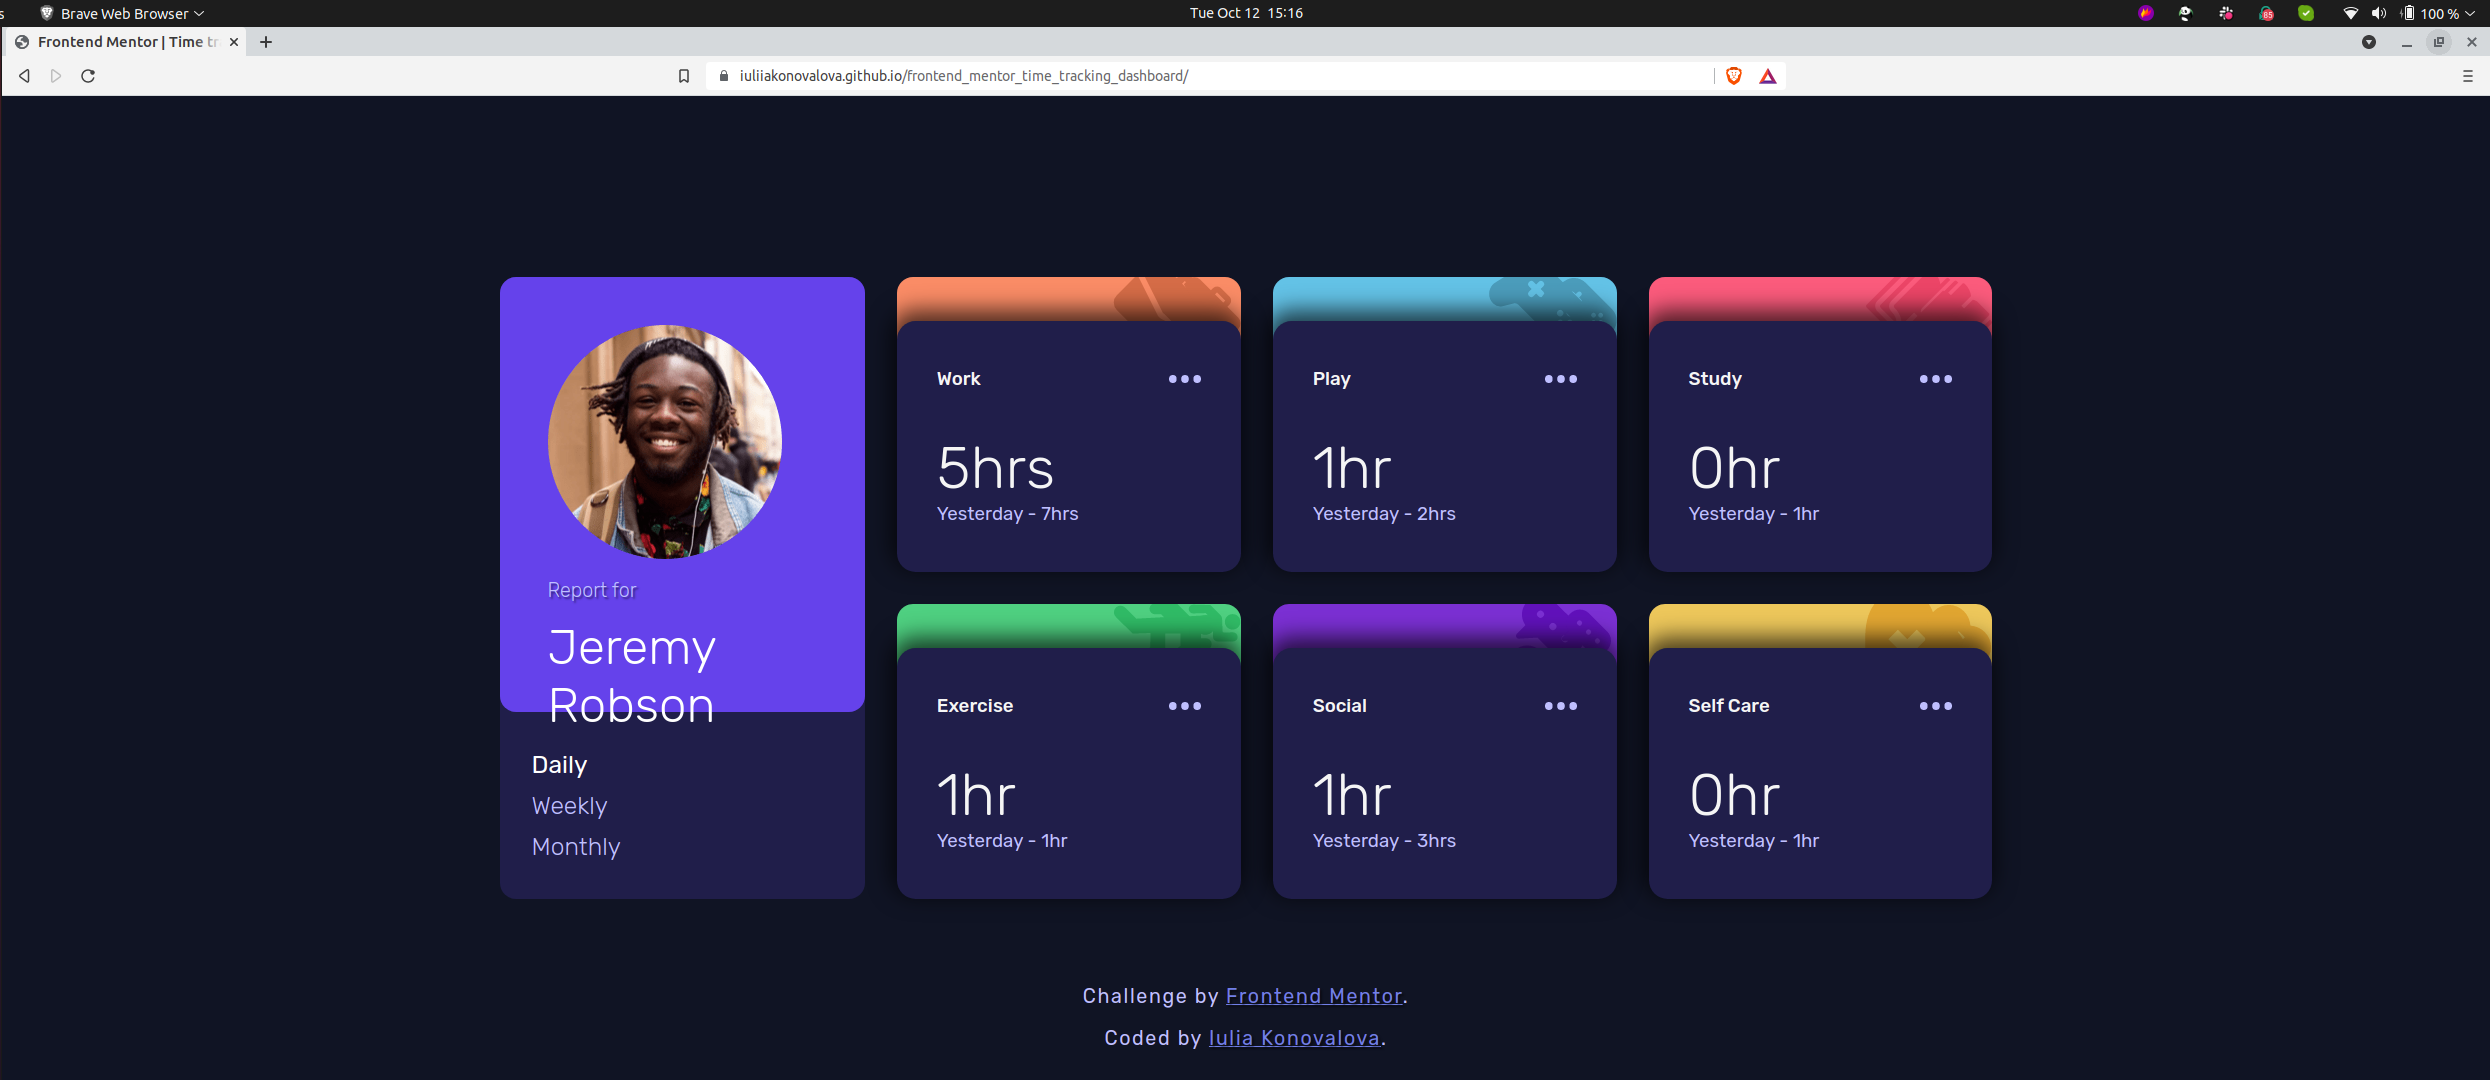
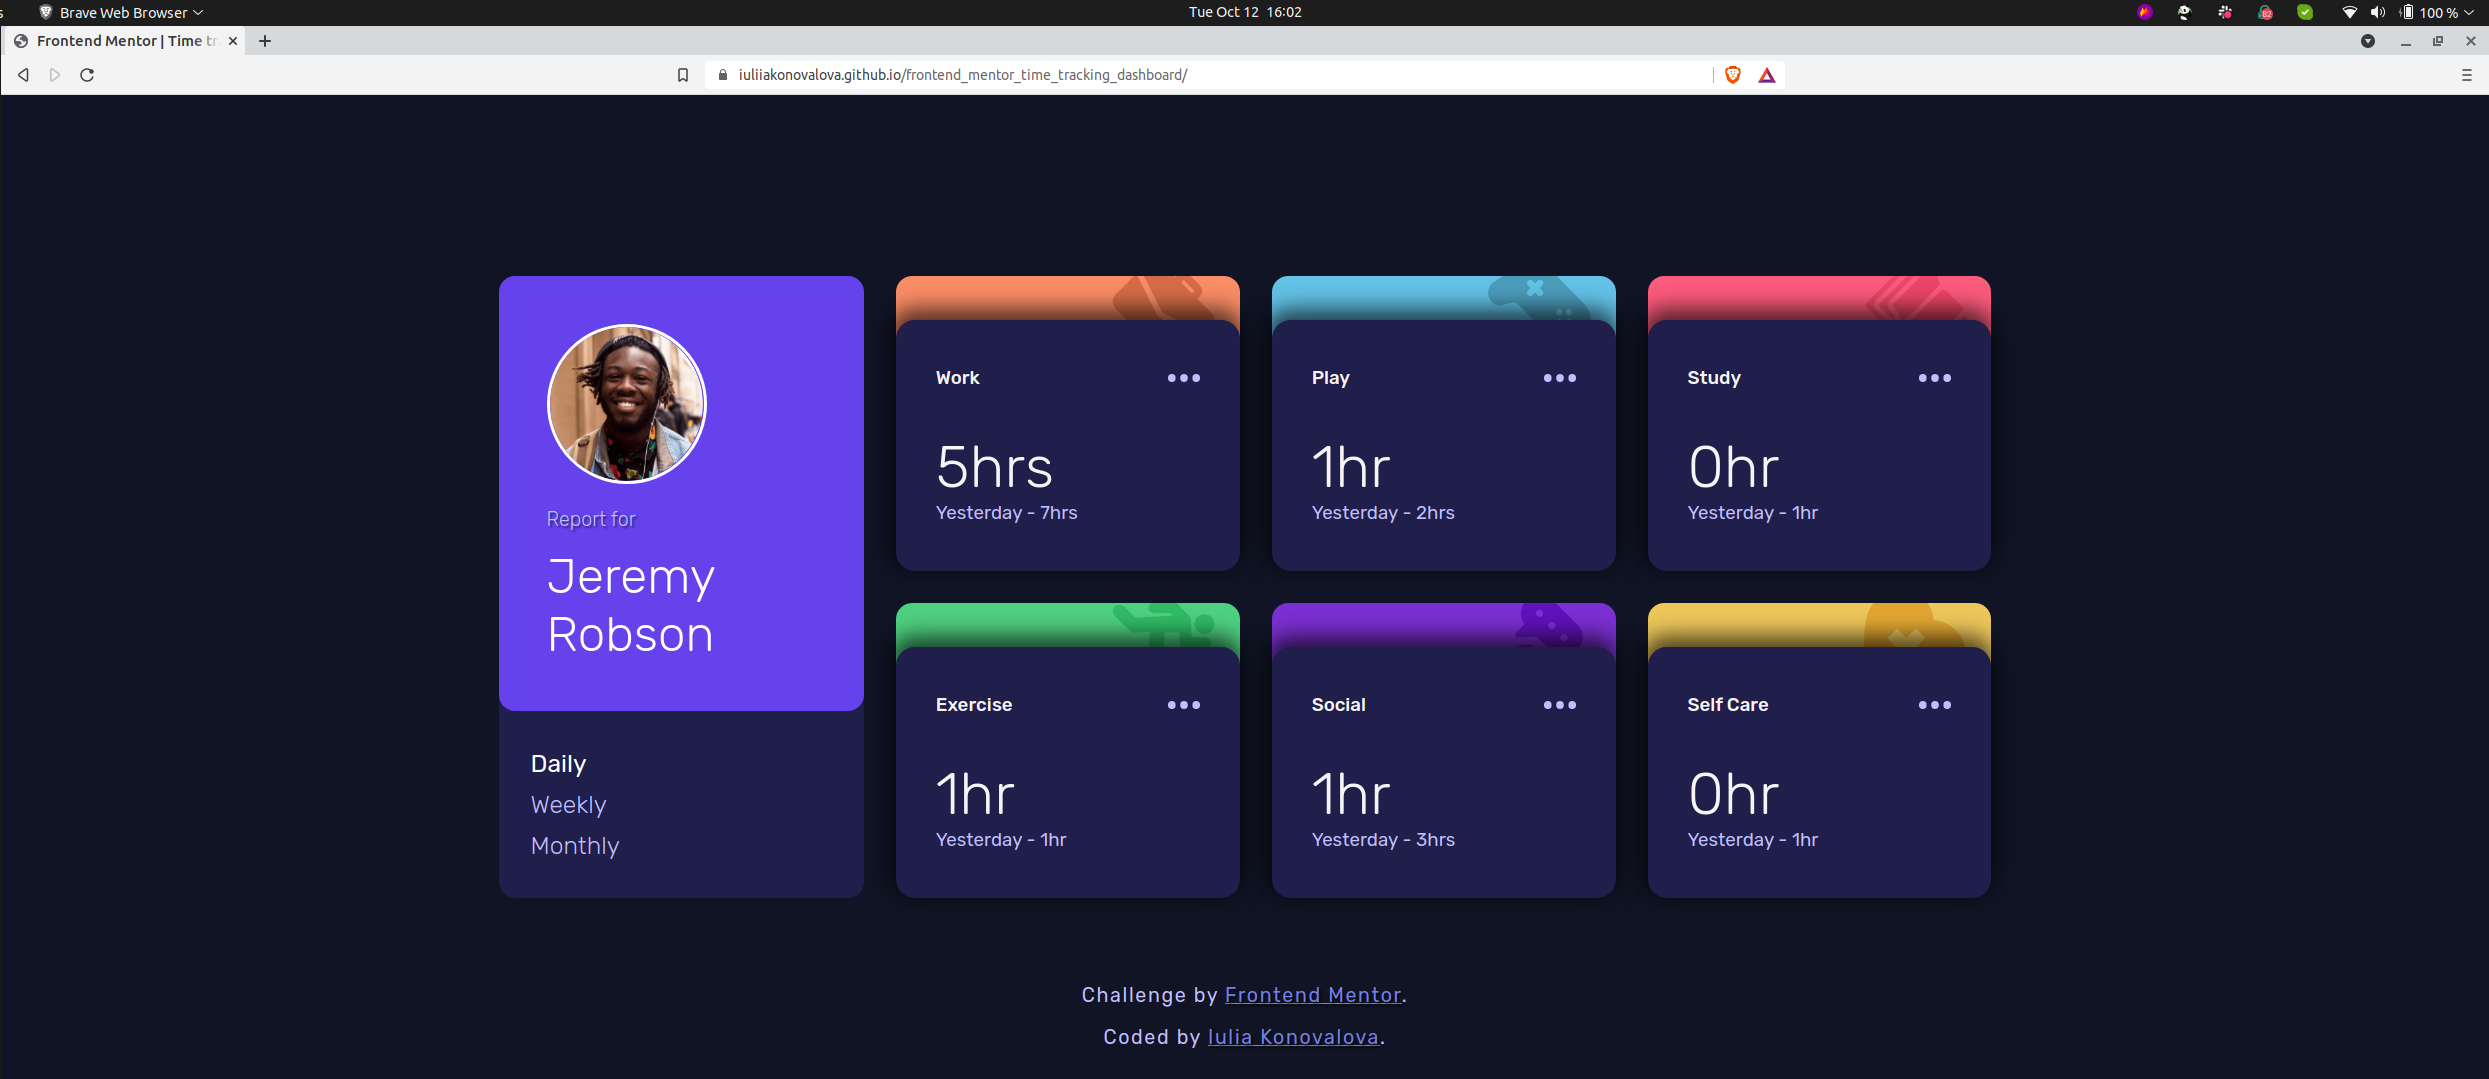
Add content to compatibility section

diff --git a/README.md b/README.md
@@ -171,10 +171,16 @@ The site can be accessed by this [link](https://iuliiakonovalova.github.io/front
   ![Main Page](documentation/compatibility/brave_browser.png)
 
   - Noted Issues:
-    - None.
+
+    - ```object-fit``` css method does-not work properly in Brave since it Brave support this property only with ```<img>```. Thus, additional code was added to prevent overlap of the elements.
+
+  ![Main Page](documentation/compatibility/brave_browser_issue.png)
+
 
 
 + The app was checked by devtools implemented on Firefox and Chrome browsers.
+
+![Devtools](documentation/compatibility/brave_browser_issue.png)
 
 + The app was checked with [Responsive Website Design Tester](https://responsivedesignchecker.com/).
 
